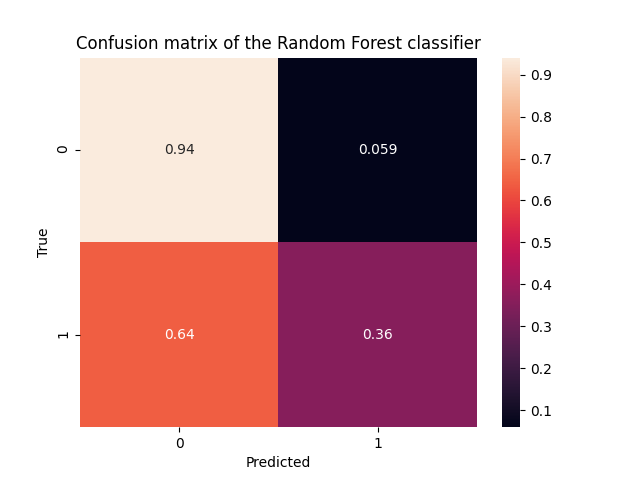
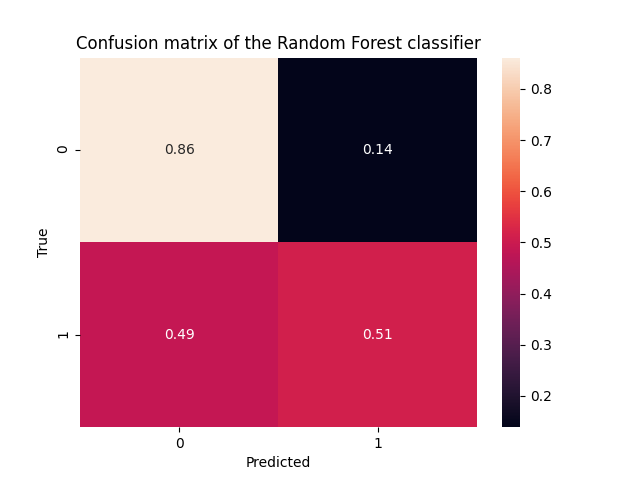
final final

diff --git a/Predicting_COVID-19_Test_Result/process-predict.py b/Predicting_COVID-19_Test_Result/process-predict.py
@@ -27,7 +27,7 @@ from sklearn.ensemble import GradientBoostingClassifier
 from sklearn.ensemble import IsolationForest
 from sklearn.neighbors import LocalOutlierFactor
 import xgboost as xgb
-from sklearn.metrics import mean_squared_error, confusion_matrix, f1_score, precision_score, plot_roc_curve
+from sklearn.metrics import mean_squared_error, confusion_matrix, f1_score, precision_score, recall_score, plot_roc_curve
 from datetime import datetime
 
 # Output file location
@@ -273,15 +273,6 @@ print("After NCR undersampling, the class distribution is:")
 print(counter)
 
 
-# # make a small set
-# train_temp = X_train_full_fs
-# train_temp['target'] = y_train_full
-# X_train_temp, X_validation_temp, y_train_temp, y_validation_temp = train_test_split(train_temp.drop(['target'], axis=1), 
-# train_temp['target'], test_size=0.003, random_state=seed, stratify=train_temp['target'])
-# X_train_full_fs = X_validation_temp
-# y_train_full = y_validation_temp
-
-
 # Saving to Local
 print("Saving to Local in csv...")
 X_train_full_fs.to_csv("./data/X_train.csv", index=False)
@@ -303,6 +294,10 @@ y_validation_full = y_validation_full.astype(int)
 
 
 # Spot Checking
+train_temp = X_train_full_fs
+train_temp['target'] = y_train_full
+X_train_temp, X_validation_temp, y_train_temp, y_validation_temp = train_test_split(train_temp.drop(['target'], axis=1), 
+train_temp['target'], test_size=0.2, random_state=seed, stratify=train_temp['target'])
 # KNN
 print("Running Models...")
 def knn(train_x, train_y, test_x, test_y):
@@ -320,7 +315,7 @@ def knn(train_x, train_y, test_x, test_y):
     plt.savefig('./output/KNN.png')
     plt.show()
 print("KNN...")
-knn(X_train_full_fs, y_train_full, X_validation_full_fs, y_validation_full)
+knn(X_train_temp, y_train_temp, X_validation_temp, y_validation_temp)
 
 # Logistic
 def log(train_x, train_y, test_x, test_y):
@@ -338,7 +333,7 @@ def log(train_x, train_y, test_x, test_y):
     plt.savefig('./output/Logistic.png')
     plt.show()
 print("LR...")
-log(X_train_full_fs, y_train_full, X_validation_full_fs, y_validation_full)
+log(X_train_temp, y_train_temp, X_validation_temp, y_validation_temp)
 
 # Decision Tree
 def dectree(train_x, train_y, test_x, test_y):
@@ -356,7 +351,7 @@ def dectree(train_x, train_y, test_x, test_y):
     plt.savefig('./output/Decision_Tree.png')
     plt.show()
 print("DT...")   
-dectree(X_train_full_fs, y_train_full, X_validation_full_fs, y_validation_full)
+dectree(X_train_temp, y_train_temp, X_validation_temp, y_validation_temp)
 
 # Complement Naive Bayes
 def cnb(train_x, train_y, test_x, test_y):
@@ -374,7 +369,7 @@ def cnb(train_x, train_y, test_x, test_y):
     plt.savefig('./output/CompNB.png')
     plt.show()
 print("CNB..") 
-cnb(X_train_full_fs, y_train_full, X_validation_full_fs, y_validation_full)
+cnb(X_train_temp, y_train_temp, X_validation_temp, y_validation_temp)
 
 def rfc(train_x, train_y, test_x, test_y):
     rforest = RandomForestClassifier(n_jobs=-1)
@@ -391,7 +386,7 @@ def rfc(train_x, train_y, test_x, test_y):
     plt.savefig('./output/Random_Forest.png')
     plt.show()
 print("RFC...")
-rfc(X_train_full_fs, y_train_full, X_validation_full_fs, y_validation_full)
+rfc(X_train_temp, y_train_temp, X_validation_temp, y_validation_temp)
 
 def xgboo(train_x, train_y, test_x, test_y):
     xgb_model = xgb.XGBClassifier()
@@ -408,7 +403,7 @@ def xgboo(train_x, train_y, test_x, test_y):
     plt.savefig('./output/xgboost.png')
     plt.show()
 print("XGBoost...")
-xgboo(X_train_full_fs, y_train_full, X_validation_full_fs, y_validation_full)
+xgboo(X_train_temp, y_train_temp, X_validation_temp, y_validation_temp)
 
 
 # Helper Function for Saving Parameters to Local
@@ -452,6 +447,7 @@ rf_space['min_samples_split'] = [2, 5, 10]
 rf_space['min_samples_leaf'] = [1, 2, 4]
 rf_space['bootstrap'] = [True, False]
 rf_space['n_jobs'] = [-1]
+rf_space['class_weight'] = ['balanced']
 # a total of 4320 settings, calculated by multiplying the number of elements in each of the parameters
 pprint(rf_space)
 # define a scoring that suits the problem of interest
@@ -459,7 +455,7 @@ pprint(rf_space)
 # (or that the set of parameter setting tried by the algorithm is given by n_iter). Each set of parameters is a random sample from the grid/search space
 # since we're ysing repeated k folds, each set of parameters is cross validated for n_repeats number of times (defined in cv), and each time it is
 # a KFold cross validation
-rf_search = RandomizedSearchCV(estimator=rf_model, param_distributions=rf_space, n_iter=2000, scoring='f1_micro', n_jobs=-1, cv=rf_cv, random_state=seed)
+rf_search = RandomizedSearchCV(estimator=rf_model, param_distributions=rf_space, n_iter=2000, scoring='recall_macro', n_jobs=-1, cv=rf_cv, random_state=seed)
 # after everything is defined, fit the random search CV to training data to initiate the random search cv process
 # the output would 
 s_time = time.perf_counter()
@@ -486,12 +482,13 @@ rf_cv = RepeatedStratifiedKFold(n_splits=4, n_repeats=3, random_state=seed)
 grid_space = {}
 grid_space['n_estimators'] = [922]
 grid_space['max_features'] = ['auto']
-grid_space['max_depth'] = [16, 17, 18, 19, 20, 21, 22, 23, 24]
-grid_space['min_samples_split'] = [1, 2, 3]
+grid_space['max_depth'] = [9, 10, 11]
+grid_space['min_samples_split'] = [4, 5, 6]
 grid_space['min_samples_leaf'] = [1, 2]
 grid_space['bootstrap'] = [True]
 grid_space['n_jobs'] = [-1]
-grid_search = GridSearchCV(estimator=rf_model, param_grid=grid_space, scoring='f1_macro', n_jobs=-1, cv=rf_cv)
+grid_space['class_weight'] = ['balanced']
+grid_search = GridSearchCV(estimator=rf_model, param_grid=grid_space, scoring='recall_macro', n_jobs=-1, cv=rf_cv)
 grid_result = grid_search.fit(X_train_full_fs, y_train_full)
 print('Best Score: %s' % grid_result.best_score_)
 print('Best Hyperparameters: %s' % grid_result.best_params_)
@@ -501,15 +498,15 @@ dict_to_txt(grid_result.best_params_, "grid_rf_best_params")
 
 # Generate model based on best hyperparameters
 def rfc(train_x, train_y, test_x, test_y):
-    rforest = RandomForestClassifier(n_jobs=-1, n_estimators=922, min_samples_split=3, min_samples_leaf=1, max_features='auto', max_depth=16, 
-    bootstrap=True)
+    rforest = RandomForestClassifier(n_jobs=-1, n_estimators=922, min_samples_split=5, min_samples_leaf=1, max_features='auto', max_depth=10, 
+    bootstrap=True, class_weight='balanced')
     rforest.fit(train_x, train_y)
     y_predictions = rforest.predict(test_x)
     print("RMSE for Random Forest Classifier = ", mean_squared_error(test_y, y_predictions))
     my_f1 = f1_score(test_y, y_predictions, average='macro')
     print("f1_macro for Random Forest Classifier = ", my_f1)
-    prec_score = precision_score(test_y, y_predictions, average='macro')
-    print("precision_macro for Random Forest Classifier = ", prec_score)
+    rec_score = recall_score(test_y, y_predictions, average='macro')
+    print("recall_macro for Random Forest Classifier = ", rec_score)
     cm = confusion_matrix(test_y, y_predictions, normalize='true')
     sns.heatmap(cm, annot=True)
     plt.title('Confusion matrix of the Random Forest classifier')
